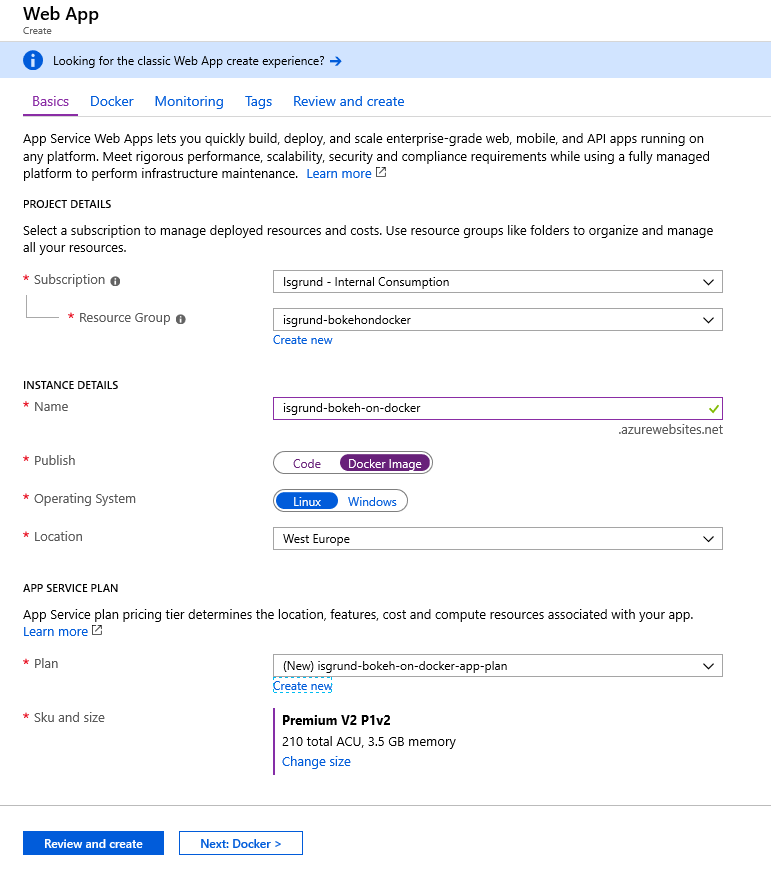
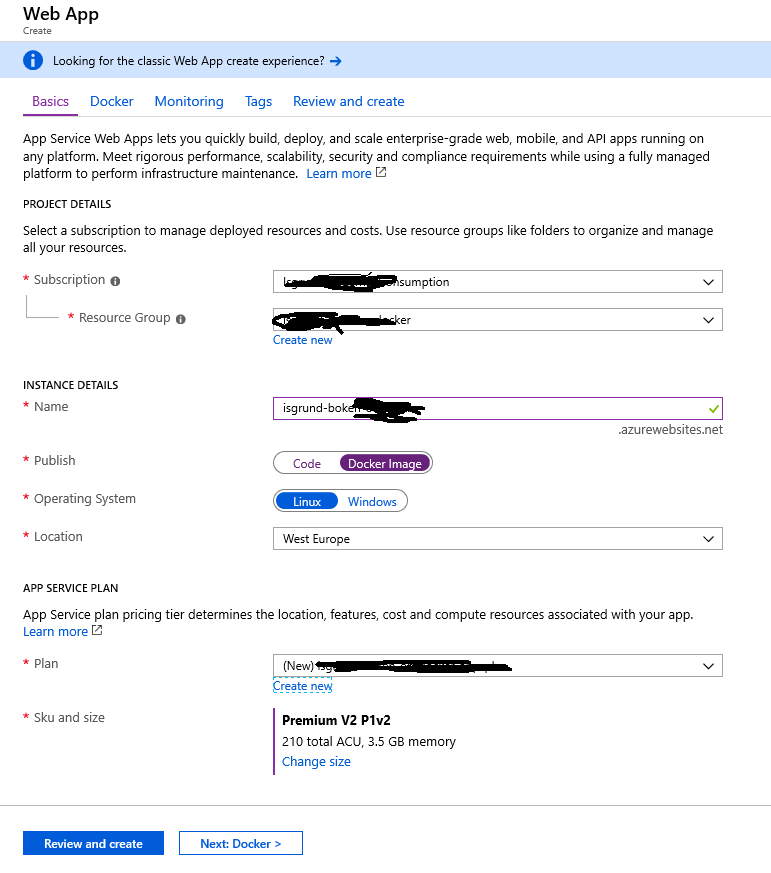
new picture and minor changes in readme

Changed region(s): [[0.3424, 0.3093, 0.5292, 0.4021], [0.4047, 0.7423, 0.6537, 0.7732], [0.4669, 0.433, 0.5603, 0.4948]]

diff --git a/README.md b/README.md
@@ -106,8 +106,8 @@ Insert the credentials you receive here:
 # Azure Web App
 * Create a new Web App on https://portal.azure.com
 * Choose your subscription and resource group and select a compact but meaningful name.
-* Choose Docker Image, Linux and the location West Europe 
-* Create a new App Service Plan with the SKU P1v2
+* Choose "Docker Image", "Linux" and the location "West Europe" 
+* Create a new App Service Plan with the SKU "P1v2"
 * Leave the rest as is and create the App Service
 
 ![create-web-app-view](/images/createwebapp.png)
